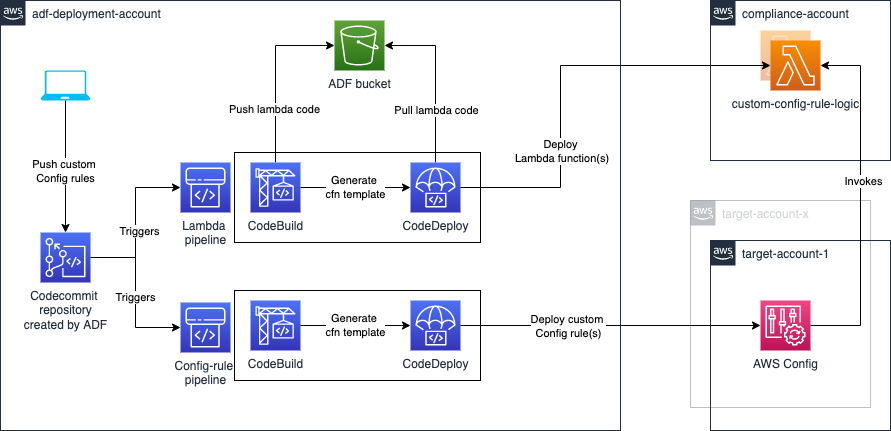
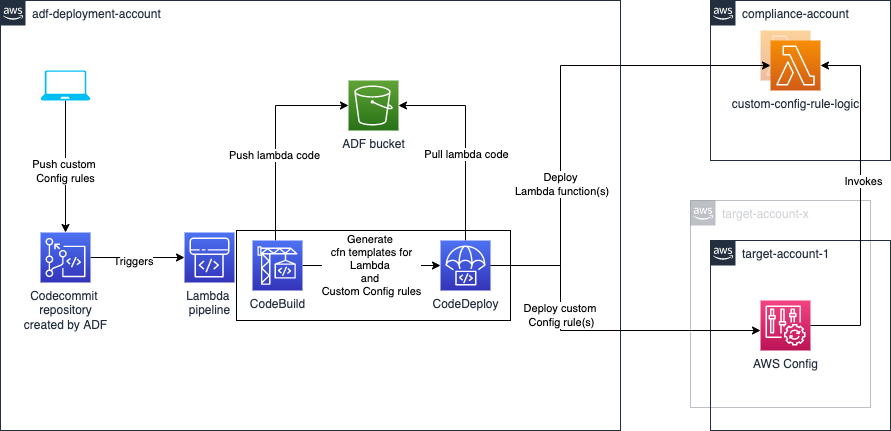
Simplified the pipeline definition into one and readme update

Changed region(s): [[0.1212, 0.0302, 0.8485, 0.9049]]

diff --git a/samples/sample-rdk-rules/README.md b/samples/sample-rdk-rules/README.md
@@ -3,56 +3,42 @@ This setup will allow you to deploy custom config rules created by the RDK via A
 
 ## Architecture
 ![Architecture](./meta/custom-configs.png)
-* As a first step it requires to have a Source code repository to store our code. In this pattern we are using CodeCommit repository. This repository created by as a part of the pipeline definition in the ADF's deployment_map.yml. Example of the pipeline definition in the Code section of the pattern below.
-* ADF pipeline definition creates 2 pipelines that get triggers by the single code repository. This requires because from the same code we extract the lambda function and the Config rule separately and deploy into different accounts via these 2 pipelines. 
+* As a first step it requires to have a Source code repository to store our code. In this pattern we are using CodeCommit repository. This repository created by as a part of the pipeline definition in the ADF's deployment_map.yml. Example of the pipeline definition is in the ADF setup section.
+* ADF pipeline definition creates a pipeline that will deploy Lambda function(s) into the compliance account and Custom Config rule(s) to Target accounts.
 * When a Custom Config rule get pushed into the CodeCommit repository; 
-    - Lambda pipeline: It will find the RDK rule(s) recursively then zip each single rule one by one and upload into ADF bucket. Buildspec of LambdaPipeline is utilising a helper script called lambda_helper.py to achieve this task and CodeBuild will produce a CloudFormation template to deploy this Lambda function. Then CodeDeploy will use CloudFormation template created in CodeBuild phase and deploy particular Lambda function into the Compliance Account.
-    - ADF Populates bucket names into SSM Parameter store. lambda_helper.py fetches the bucket name from the SSM Parameter Store. Parameter name looks like /cross_region/s3_regional_bucket/{region}.
-    - Config-Rule pipeline: This pipeline will only deploy Custom Config rule(s) by referring Lambda function get deployed from Lambda pipeline. This pipeline uses rdk create-rule-template --rules-only -a  -o template-config-rules.json to produce the CloudFormation template.
+    - CodeBuild will find the RDK rule(s) recursively in the `config-rules` directory then zip each single rule one by one and upload into ADF bucket. Buildspec is utilising a helper script called lambda_helper.py to achieve this task. ADF populates bucket names into SSM Parameter store on the Installation. lambda_helper.py fetches the bucket name from the SSM Parameter Store. Parameter name looks like /cross_region/s3_regional_bucket/{region}.
+    - Then CodeBuild will generate 2 CloudFormation templates one for Lambda function(s) deployment and other for the Custom Config rule(s) deployment.
+
 * When a Lambda function get invokes by a Target account Custom config rule; it will assume the Config role in Target account then put config Evaluations into the Target account's Config rule.
 ### ADF setup
-2 Pipelines will be similar to below:
+Sample pipeline defintion looks like below:
 
 ```
-- name: custom-config-rules ## repo name
-    default_providers:
-      source:
-        provider: codecommit
-        properties:
-          account_id: <deployment-account-id>
-      build:
-        provider: codebuild
-        properties:
-          image: "STANDARD_5_0"
-          spec_filename: "buildspec-lambda.yml"
-      deploy:
-        provider: cloudformation
-        properties:
+  - name: custom-config-rules-pipeline ## repo name
+  default_providers:
+    source:
+      provider: codecommit
+      properties:
+        account_id: <compliance-account-id>
+    build:
+      provider: codebuild
+      properties:
+        image: "STANDARD_5_0"
+    deploy:
+      provider: cloudformation
+  targets:  
+    - name: LambdaDeployment
+      regions: <regions>
+      target: <compliance-account-id>
+      properties:
           template_filename: "template-lambda.json"
-    targets:  
-      - <deployment-account-id>
-
-      
-  - name: custom-config-rules-2
-    default_providers:
-      source:
-        provider: codecommit
-        properties:
-          account_id: <deployment-account-id>
-          repository: custom-config-rules ### Same repo name as above
-      build:
-        provider: codebuild
-        properties:
-          image: "STANDARD_5_0"
-          spec_filename: "buildspec-config-rules.yml"
-      deploy:
-        provider: cloudformation
-        properties:
-          template_filename: "template-config-rules.json"
-    targets:  
-      - <target-accounts-to-deploy-custom-config-rules> 
+    - name: ConfigRulesDeployment
+      regions: <regions>
+      target:
+        - <target-accounts-to-deploy-custom-config-rules> 
+      properties:
+        template_filename: "template-config-rules.json"
 ```
-As you see here each time when a commit get pushed; these 2 pipelines will be triggered. As per the current ADF version(v3.1.2) we cannot stop pipeline trigger when a commit get pushed. Unless it could be chained(when [this changes](https://github.com/awslabs/aws-deployment-framework/pull/357) get released with [`trigger_on_changes`](https://github.com/awslabs/aws-deployment-framework/blob/master/docs/providers-guide.md#codecommit) attribute).
 
 
 ## Development setup
@@ -60,10 +46,9 @@ After you clone the repo following file/folder structure will be there;
 | Name  | Purpose  |   
 |---|---|
 | config-rules  | This folder will contain all the custom config rules created by `rdk create ...`. Make sure to setup correct details in the `parameters.json` file(ex: SourceRuntime) |
-| params  | Contains parameters we need for the generated CloudFormation templates. You must set the account id that deployed your Lambda functions called `LambdaAccountId`. This will be used as a parameter when it deploys config-rule into Target accounts to refer Lambda function from the Compliance-account. [Refer this link](https://github.com/awslabs/aws-deployment-framework/blob/master/docs/user-guide.md#cloudformation-parameters-and-tagging)  |
+| params  | Contains parameters we need for the generated CloudFormation templates. You must set the account id of the Compliance account in `LambdaAccountId`. This will be used as a parameter when it deploys config-rule into Target accounts to refer Lambda function from the Compliance account. [Refer this link](https://github.com/awslabs/aws-deployment-framework/blob/master/docs/user-guide.md#cloudformation-parameters-and-tagging)  |
 | templates  | This folder contains all the cloudformation template pieces that required to build cfn template for the lambda function deployment.  |
-| buildspec-lambda.yml | Buildspec file for the Lambda function deployment pipeline. Make sure this is the same name that you have defined in ADF pipeline. |
-| buildspec-config-rules.yml | Buildspec file for the config-rule deployment pipeline. Make sure this is the same name that you have defined in ADF pipeline. |
+| buildspec.yml | Buildspec file to generate Cloudformation templates for the Lambda and Custom Config rules |
 | lambda_helper.py | This is the helper file that pack and upload the lambda code recursively in the config-rules folder |
 | requirements.txt| Requirements for the lambda_helper.py script.|
 
